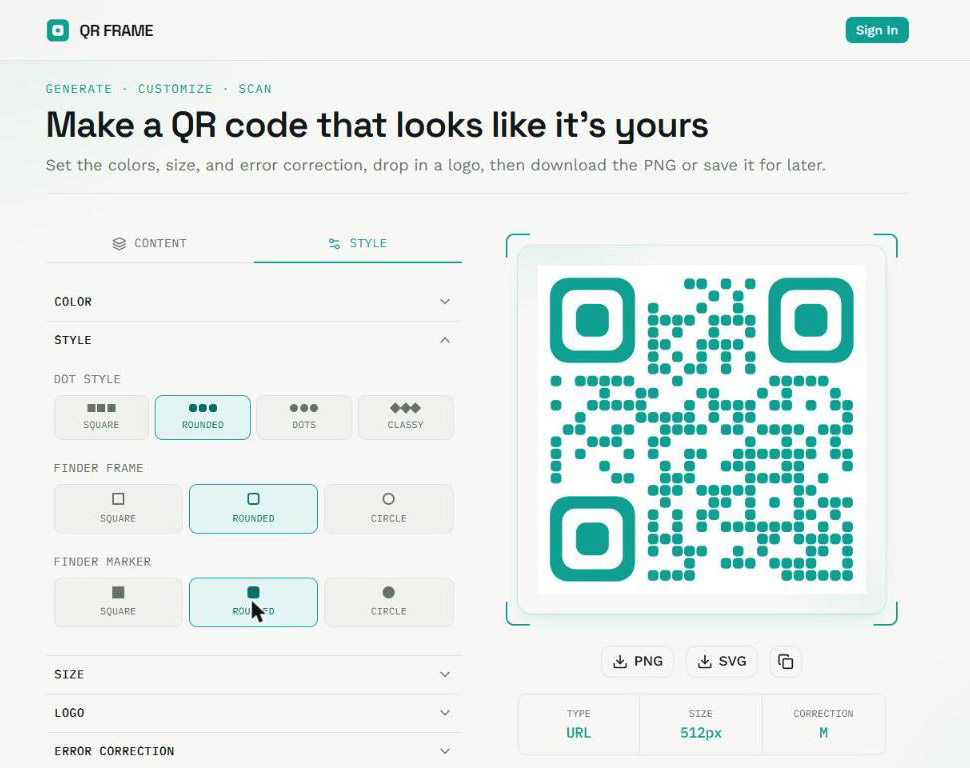
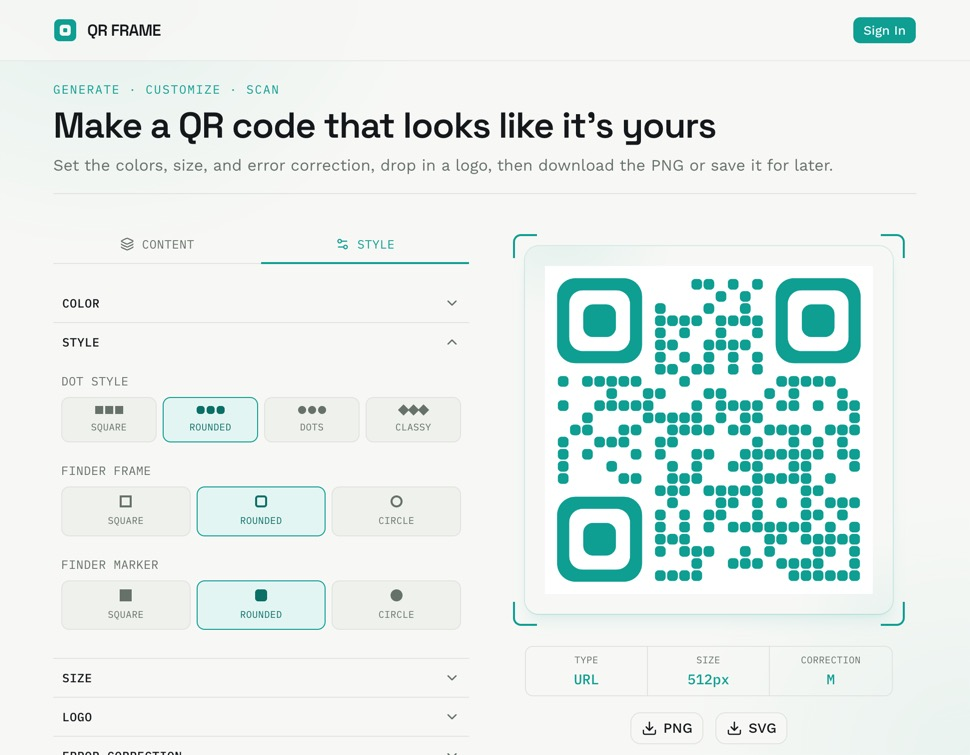
Refresh README screenshots and bump Node prerequisite to 22+
Screenshots predated the copy-to-clipboard-to-Share swap and stats-row
reorder from PR #42; Node 22+ matches what the deploy workflow actually
requires for pnpm 11.17.0's node:sqlite usage.

Claude-Session: https://claude.ai/code/session_018xu7ay6h4DwAWQ5hcf4WB8

diff --git a/README.md b/README.md
@@ -72,7 +72,7 @@ Pick a content type, style every pixel, download it as PNG or SVG — and save i
 
 ### Prerequisites
 
-- Node.js 20+
+- Node.js 22+
 - pnpm
 - A MySQL database reachable from your machine (plus a second, empty database used only as Prisma's [shadow database](https://www.prisma.io/docs/orm/prisma-migrate/understanding-prisma-migrate/shadow-database))
 - A [Clerk](https://clerk.com/) application (for sign-in)
